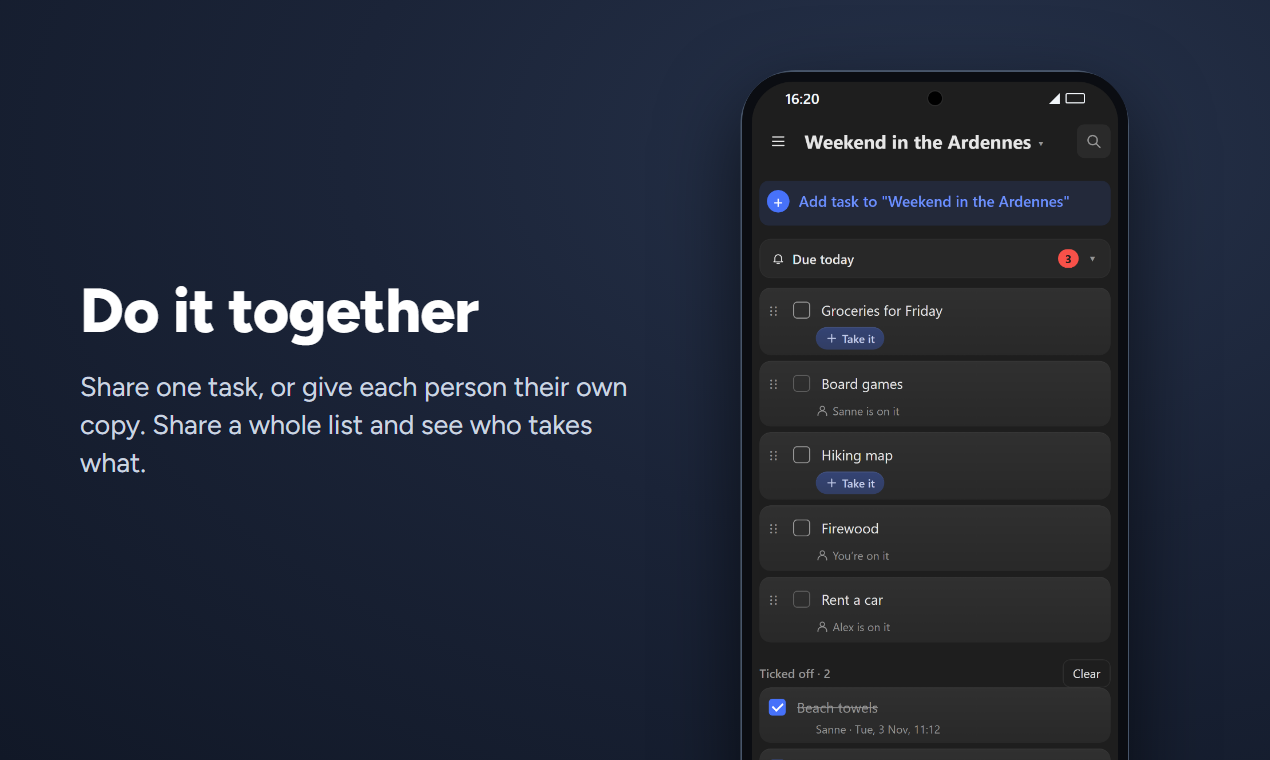
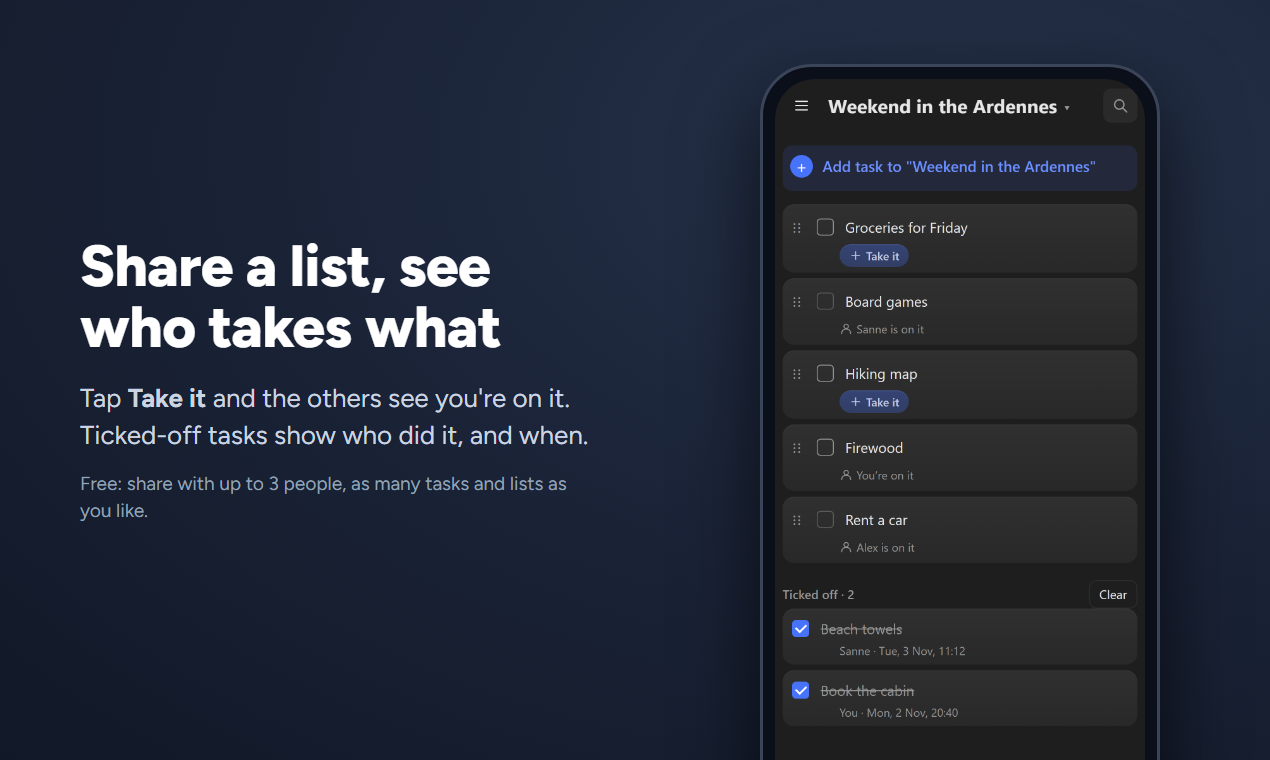
Product Hunt: nieuwe invalshoek (samen delen voorop, plekken als Android-extra, vleugje open source)

Changed region(s): [[0.5835, 0.0605, 0.9213, 1.0], [0.0614, 0.4842, 0.4913, 0.6961], [0.0614, 0.3026, 0.3992, 0.4539]]

diff --git a/store/product-hunt/gallery.html b/store/product-hunt/gallery.html
@@ -1,44 +1,77 @@
 <!doctype html>
 <html><head><meta charset="utf-8">
-<link href="https://fonts.googleapis.com/css2?family=Figtree:wght@400;500;800&display=block" rel="stylesheet">
+<!-- Product Hunt gallery, 1270×760. Render each slide with headless Chrome: gallery.html#1 … #6 (see README.md). -->
+<link href="https://fonts.googleapis.com/css2?family=Figtree:wght@400;500;700;800&display=block" rel="stylesheet">
 <style>
   html,body{margin:0;width:1270px;height:760px;overflow:hidden}
-  body{font-family:Figtree,"Segoe UI",sans-serif;color:#fff;
+  body{font-family:Figtree,"Segoe UI",sans-serif;color:#fff;position:relative;
     background:radial-gradient(ellipse at 75% 20%,#26324a 0%,#1b2438 45%,#111827 100%)}
-  .text{position:absolute;left:80px;top:0;bottom:0;width:530px;display:flex;flex-direction:column;justify-content:center}
-  .logo{display:flex;align-items:center;gap:22px;margin-bottom:40px}
-  .logo img{width:92px;height:92px;border-radius:22px;box-shadow:0 0 0 2px #334155}
-  .logo span{font-size:76px;font-weight:800;letter-spacing:-1px}
-  h1{font-size:62px;line-height:1.06;font-weight:800;margin:0 0 24px;letter-spacing:-.5px}
-  p{font-size:27px;line-height:1.4;color:#cbd5e1;margin:0}
-  .tags{display:flex;gap:12px;margin-top:34px;flex-wrap:wrap}
-  .tags b{font-weight:500;font-size:21px;color:#fcd34d;border:2px solid #fcd34d66;border-radius:999px;padding:7px 18px}
-  .phone{position:absolute;width:389px;height:860px;overflow:hidden;border-radius:56px 56px 0 0;
-    box-shadow:0 30px 80px #0009}
-  .phone img{position:absolute;width:618px;left:-114px;top:-223px} /* 1080 wide * .572; phone frame starts x200,y390 */
-  .one   {left:740px;top:70px}
-  .back  {left:880px;top:150px;transform:scale(.86);transform-origin:top left;opacity:.97}
-  .front {left:650px;top:62px}
+  .text{position:absolute;left:80px;top:0;bottom:0;width:510px;display:flex;flex-direction:column;justify-content:center}
+  .logo{display:flex;align-items:center;gap:20px;margin-bottom:36px}
+  .logo img{width:84px;height:84px;border-radius:20px;box-shadow:0 0 0 2px #334155}
+  .logo span{font-size:70px;font-weight:800;letter-spacing:-1px}
+  h1{font-size:58px;line-height:1.06;font-weight:800;margin:0 0 22px;letter-spacing:-.5px}
+  h1 em{font-style:normal;color:#fcd34d}
+  p{font-size:26px;line-height:1.4;color:#cbd5e1;margin:0}
+  .fine{font-size:19px;color:#94a3b8;margin-top:18px}
+  .badge{align-self:flex-start;font-weight:700;font-size:20px;color:#111827;background:#fcd34d;border-radius:999px;padding:7px 18px;margin-bottom:22px}
+  .tags{display:flex;gap:12px;margin-top:30px;flex-wrap:wrap}
+  .tags b{font-weight:500;font-size:20px;color:#fcd34d;border:2px solid #fcd34d66;border-radius:999px;padding:6px 16px}
+  /* phone: raw 780×1688 app screens (docs/screenshots/src/raw) in a CSS frame */
+  .phone{position:absolute;width:370px;height:820px;border-radius:52px;background:#0b0f19;
+    border:3px solid #3b4559;padding:12px;box-sizing:content-box;box-shadow:0 30px 80px #000a}
+  .phone img{display:block;width:370px;height:801px;object-fit:cover;object-position:top;border-radius:40px}
+  .front{left:640px;top:56px;z-index:2}
+  .back{left:880px;top:130px;transform:scale(.86);transform-origin:top left}
+  .one{left:760px;top:64px}
+  /* browser window */
+  .browser{position:absolute;left:650px;top:110px;width:860px;border-radius:14px;overflow:hidden;
+    background:#1f1f1f;box-shadow:0 30px 80px #000a;border:2px solid #3b4559}
+  .bar{height:44px;background:#2a2f3a;display:flex;align-items:center;gap:9px;padding:0 16px}
+  .bar i{width:12px;height:12px;border-radius:50%;background:#4b5563}
+  .bar span{margin-left:18px;font-size:16px;color:#cbd5e1;background:#1b2130;border-radius:8px;padding:5px 16px}
+  .browser img{display:block;width:860px}
+  /* open-source cards */
+  .cards{position:absolute;left:660px;top:120px;width:540px;display:grid;gap:16px}
+  .card{background:#1e2738;border:2px solid #334155;border-radius:18px;padding:20px 24px;display:flex;gap:18px;align-items:center}
+  .card b{font-size:34px;width:44px;text-align:center}
+  .card div{font-size:22px;line-height:1.3;color:#e2e8f0}
+  .card small{display:block;font-size:17px;color:#94a3b8;margin-top:3px}
 </style></head><body>
 <div id="s"></div>
 <script>
-const G='../google-play/';
-const ph=(f,c)=>`<div class="phone ${c}"><img src="${G}en/${f}"></div>`;
+const RAW='../../docs/screenshots/src/raw/', ICON='../google-play/icon-512.png';
+const ph=(f,c)=>`<div class="phone ${c}"><img src="${RAW}${f}"></div>`;
 const slides={
- 1:`<div class="text"><div class="logo"><img src="${G}icon-512.png"><span>Tick</span></div>
-    <h1>Reminds you when you get there</h1>
-    <p>A free to-do app with reminders at the right time, and at the right place.</p></div>
-    ${ph('screenshot-7-driving.png','back')}${ph('screenshot-3-location.png','front')}`,
- 2:`<div class="text"><h1>Do it together</h1>
-    <p>Share one task, or give each person their own copy. Share a whole list and see who takes what.</p></div>
-    ${ph('screenshot-4-shared.png','one')}`,
- 3:`<div class="text"><h1>Old tasks get a second chance</h1>
+ 1:`<div class="text"><div class="logo"><img src="${ICON}"><span>Tick</span></div>
+    <h1>One task together, or <em>a copy for each</em></h1>
+    <p>A free to-do app for the things you sort out with others.</p></div>
+    ${ph('m-potluck-dark.png','back')}${ph('m-share-dark.png','front')}`,
+ 2:`<div class="text"><h1>Share a list, see who takes what</h1>
+    <p>Tap <b>Take it</b> and the others see you're on it. Ticked-off tasks show who did it, and when.</p>
+    <p class="fine">Free: share with up to 3 people, as many tasks and lists as you like.</p></div>
+    ${ph('m-shared-list-dark.png','one')}`,
+ 3:`<div class="text"><span class="badge">Free on Android</span>
+    <h1>Reminds you when you reach the shop</h1>
+    <p>Give a task a place and get a nudge when you arrive or leave. Your location stays on your phone.</p>
+    <p class="fine">On iPhone you get reminders at a time; place reminders need the Android app.</p></div>
+    ${ph('m-driving-dark.png','back')}${ph('m-location-dark.png','front')}`,
+ 4:`<div class="text"><h1>On your phone and in&nbsp;your browser</h1>
+    <p>Android app, any browser, and iPhone from the home screen. Works offline too.</p>
+    <div class="tags"><b>Web</b><b>Android</b><b>iPhone</b><b>Offline</b></div></div>
+    <div class="browser"><div class="bar"><i></i><i></i><i></i><span>app.ticktodo.nl</span></div>
+    <img src="${RAW}d-all-dark.png"></div>`,
+ 5:`<div class="text"><h1>Old tasks get a second chance</h1>
     <p>The Tickmanager brings forgotten tasks back one at a time: schedule, move to top, leave it, or delete.</p></div>
-    ${ph('screenshot-6-manager.png','one')}`,
- 4:`<div class="text"><h1>Free. No ads. No&nbsp;tracking.</h1>
-    <p>In your browser, on Android, and on iPhone from the home screen. Open source, so you can host your own.</p>
-    <div class="tags"><b>Web</b><b>Android</b><b>iPhone</b><b>MIT licence</b></div></div>
-    ${ph('screenshot-5-calendar.png','back')}${ph('screenshot-1-home.png','front')}`
+    ${ph('m-manager-dark.png','one')}`,
+ 6:`<div class="text"><h1>Open source. <em>Host your own.</em></h1>
+    <p>No ads, no tracking. The code is on GitHub, so you can see what Tick does, or run it yourself.</p></div>
+    <div class="cards">
+     <div class="card"><b>☁</b><div>Runs on a free Cloudflare account<small>Your Tick, your data, no limit on people</small></div></div>
+     <div class="card"><b>⚡</b><div>Set up in about 15 minutes<small>Claude Code does the steps for you</small></div></div>
+     <div class="card"><b>🤖</b><div>Let Claude manage your tasks<small>Built-in MCP server, with a key you can revoke</small></div></div>
+     <div class="card"><b>📖</b><div>MIT licence<small>github.com/DioVayne/tick</small></div></div>
+    </div>`
 };
 document.getElementById('s').innerHTML=slides[location.hash.slice(1)||1];
 </script></body></html>
